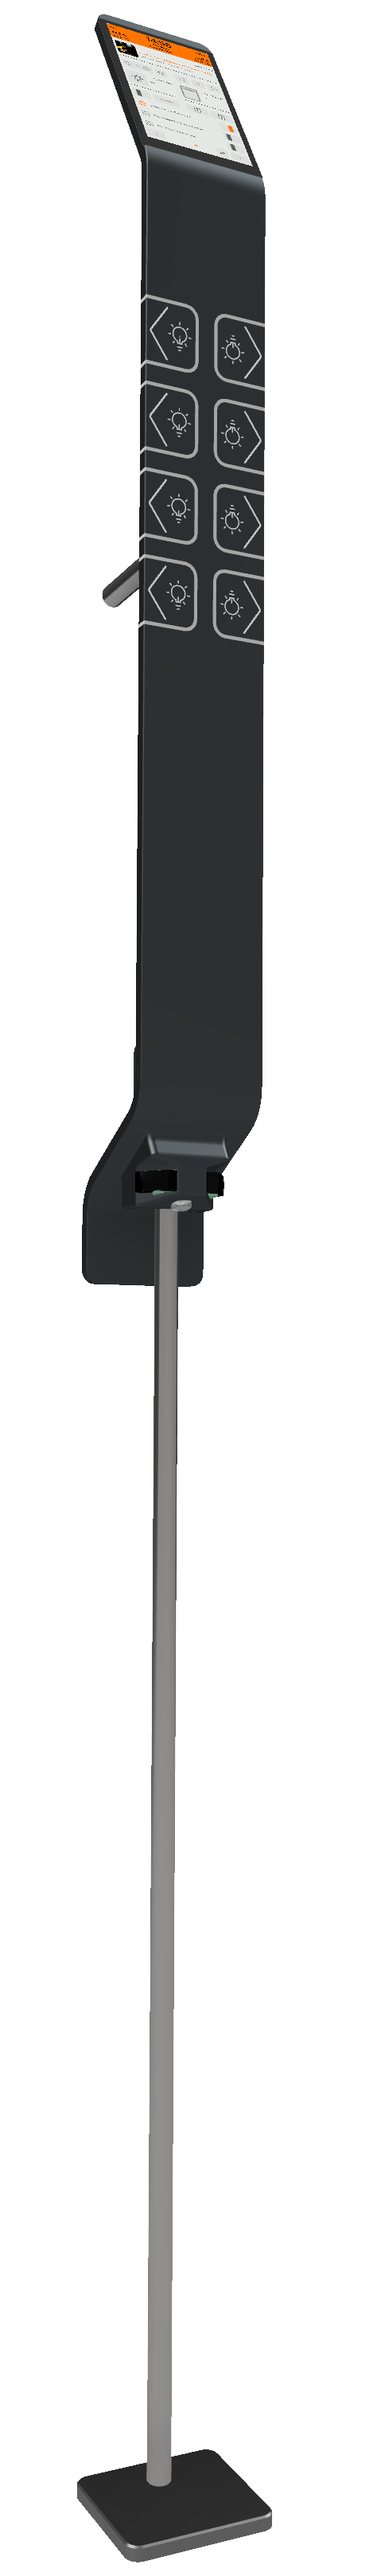
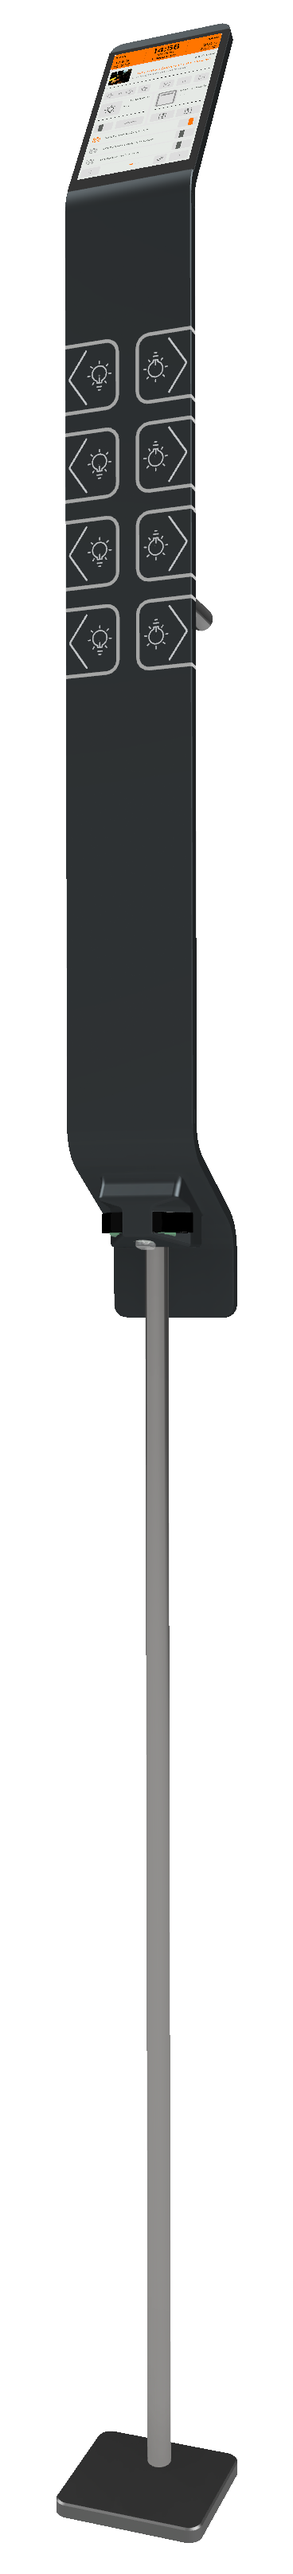
Bild 15 gegen Bild 17 tauschen (mount-1.png)
Neues Rendering, leicht anderes Seitenverhaeltnis (368x3233 statt
474x3235) -> Grid-Spaltenverhaeltnis im Hardware-Bereich angepasst
(1fr 4.29fr statt 3fr 10fr), damit beide Bilder weiterhin gleich
hoch werden.

Changed region(s): [[0.2092, 0.0, 0.8071, 0.9997], [0.1793, 0.9372, 0.2391, 0.9997]]

diff --git a/docs/index.html b/docs/index.html
@@ -291,7 +291,7 @@
     <div style="font-size: 14px; line-height: 1.6; color: #a9b3ac; max-width: 700px; margin-bottom: 32px;">
       Freistehend zeigt sich, wie schlank die Säule wirklich wirkt: vom Boden bis auf Blickhöhe, ohne wuchtigen Sockel — nur ein schmaler Standfuß, die Kabelführung verschwindet unsichtbar im Inneren der Stange.
     </div>
-    <div class="hw-imgs" style="display: grid; grid-template-columns: 3fr 10fr; gap: 22px; align-items: end;">
+    <div class="hw-imgs" style="display: grid; grid-template-columns: 1fr 4.29fr; gap: 22px; align-items: end;">
       <img class="hw-img" src="https://raw.githubusercontent.com/Holzmusik/MiraiPanel/master/assets/mount-1.png" alt="Freistehende Säulen-Variante in voller Höhe" style="width: 100%; height: auto; border-radius: 12px; border: 1px solid #1f2e23;">
       <img class="hw-img" src="https://raw.githubusercontent.com/Holzmusik/MiraiPanel/master/assets/mount-2.png" alt="Montagevarianten im Vergleich: freistehend, wandmontiert und kompakt" style="width: 100%; height: auto; border-radius: 12px; border: 1px solid #1f2e23;">
     </div>
